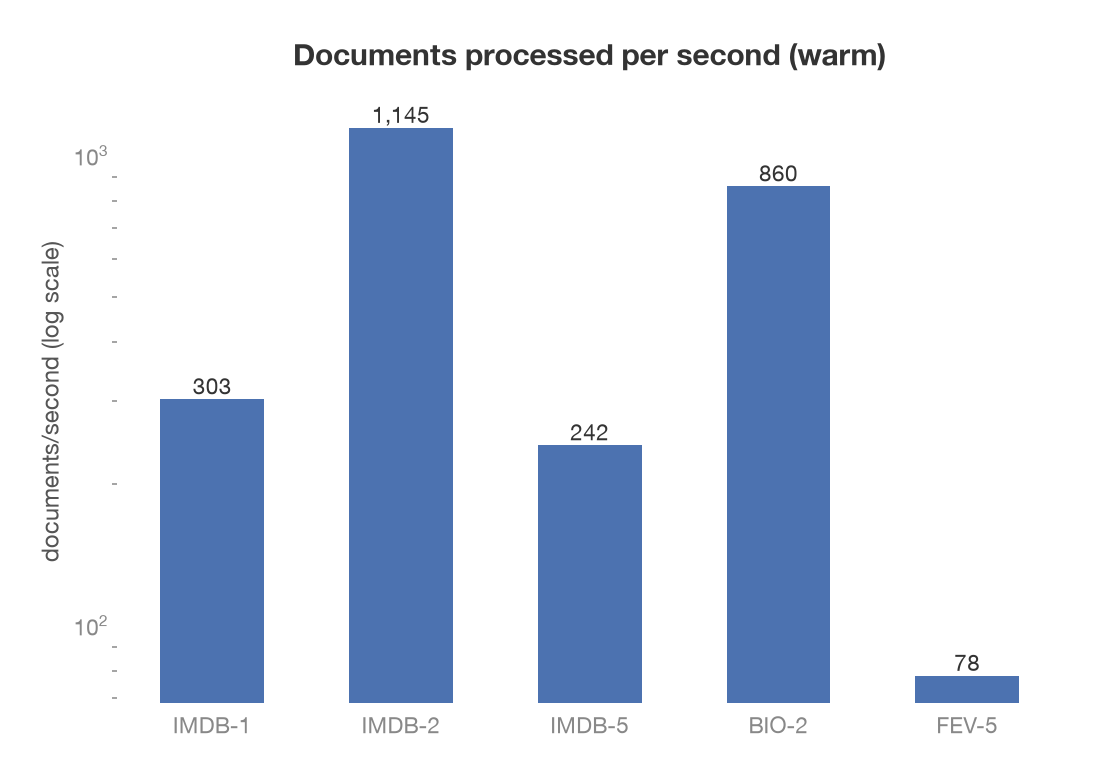
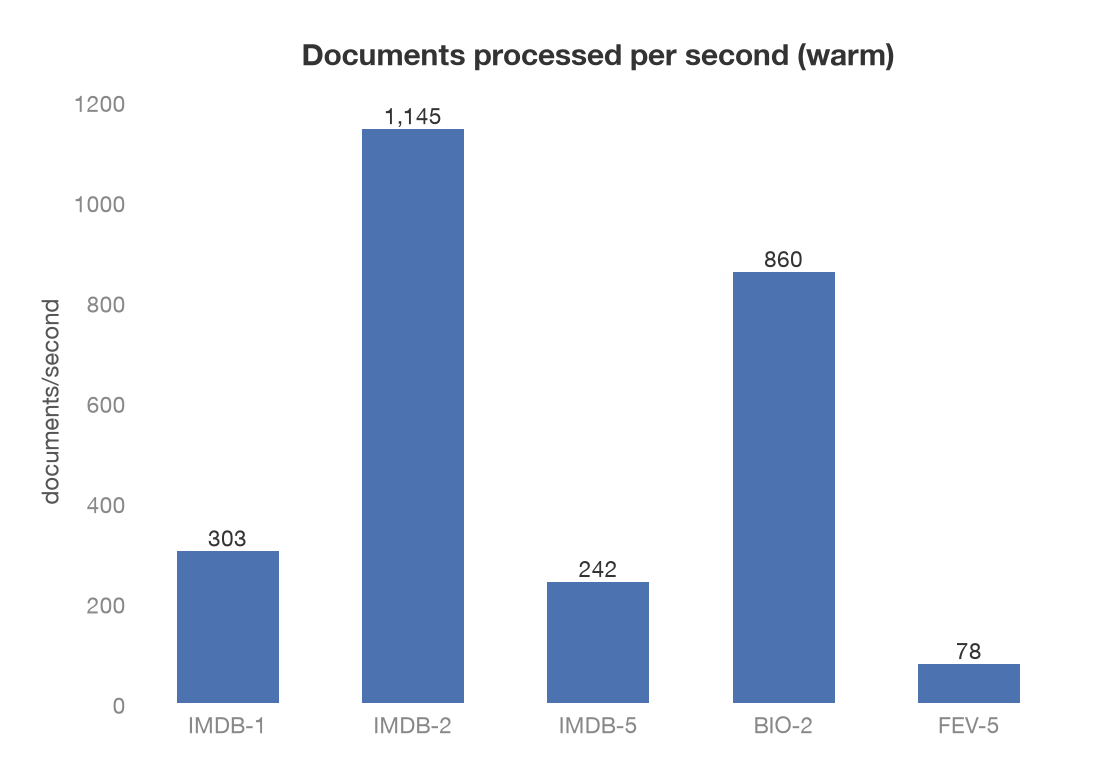
Keep the docs/s plot linear, not log-scaled

diff --git a/quail/reports/make_sol_cost_throughput_plots.py b/quail/reports/make_sol_cost_throughput_plots.py
@@ -74,11 +74,6 @@ def fig_rate(rows, key, ylabel, title, color, out_name, fmt):
     labels = [r["query"] for r in rows]
     vals = [r[key] for r in rows]
 
-    # More than one order of magnitude across queries (docs/s spans
-    # ~78-1145, ~15x) gets a log axis, per this repo's plotting rules
-    # (quail.mplstyle's linear default is fine for tokens/s, which
-    # only spans ~1.4x here).
-    log = (max(vals) / min(vals)) > 10
     x = np.arange(len(labels))
     fig, ax = plt.subplots(figsize=(max(6, len(labels) * 1.1), 4.2))
     ax.bar(x, vals, color=color, width=0.55)
@@ -87,11 +82,7 @@ def fig_rate(rows, key, ylabel, title, color, out_name, fmt):
 
     ax.set_xticks(x)
     ax.set_xticklabels(labels)
-    if log:
-        ax.set_yscale("log")
-        ax.set_ylabel(f"{ylabel} (log scale)")
-    else:
-        ax.set_ylabel(ylabel)
+    ax.set_ylabel(ylabel)
     ax.set_title(title)
     ax.spines[["top", "right"]].set_visible(False)
     fig.tight_layout()

diff --git a/quail/reports/2026-08-23-sol-throughput-cost.md b/quail/reports/2026-08-23-sol-throughput-cost.md
@@ -684,9 +684,7 @@ all of its cost is steady-state GPU time, not boot.
 
 Figure: plots/sol_docs_per_s.png
 
-Documents/second, warm pass, log-scaled (78-1,145 docs/s, a ~15x
-spread - more than one order of magnitude, so linear would compress
-the smaller bars unreadably). IMDB-2 leads at 1,145 docs/s: it's a
+Documents/second, warm pass, linear (78-1,145 docs/s). IMDB-2 leads at 1,145 docs/s: it's a
 join, and a join's per-document cost is dominated by short streaming
 reads against an already-built anchor, not a full causal prefill.
 FEV-5 is lowest (78 docs/s) - it's also the smallest query by document
